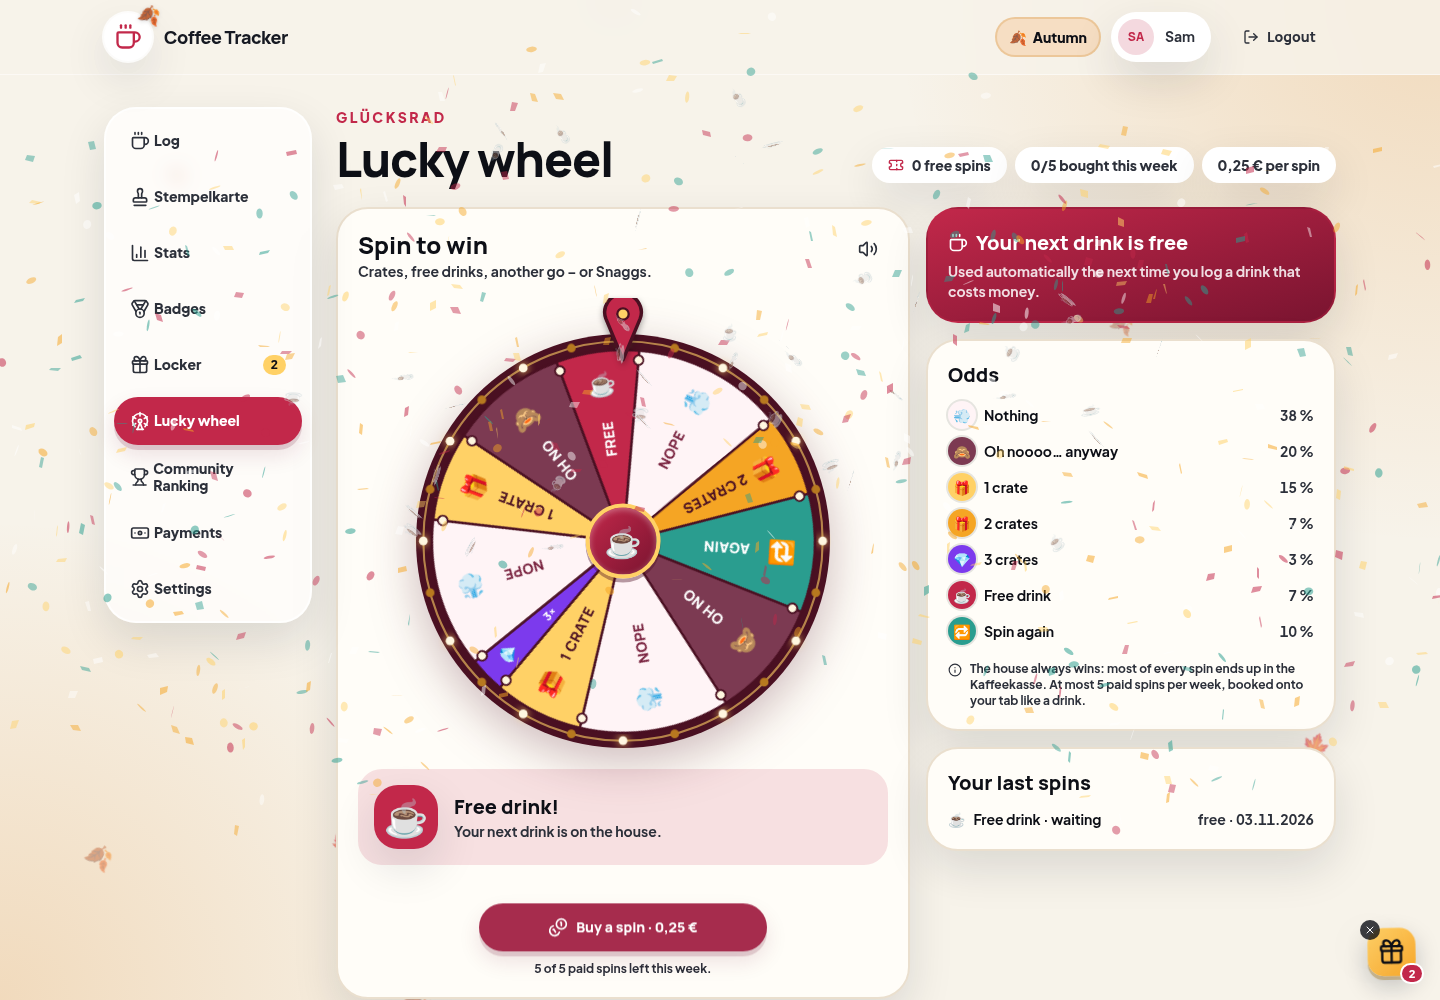
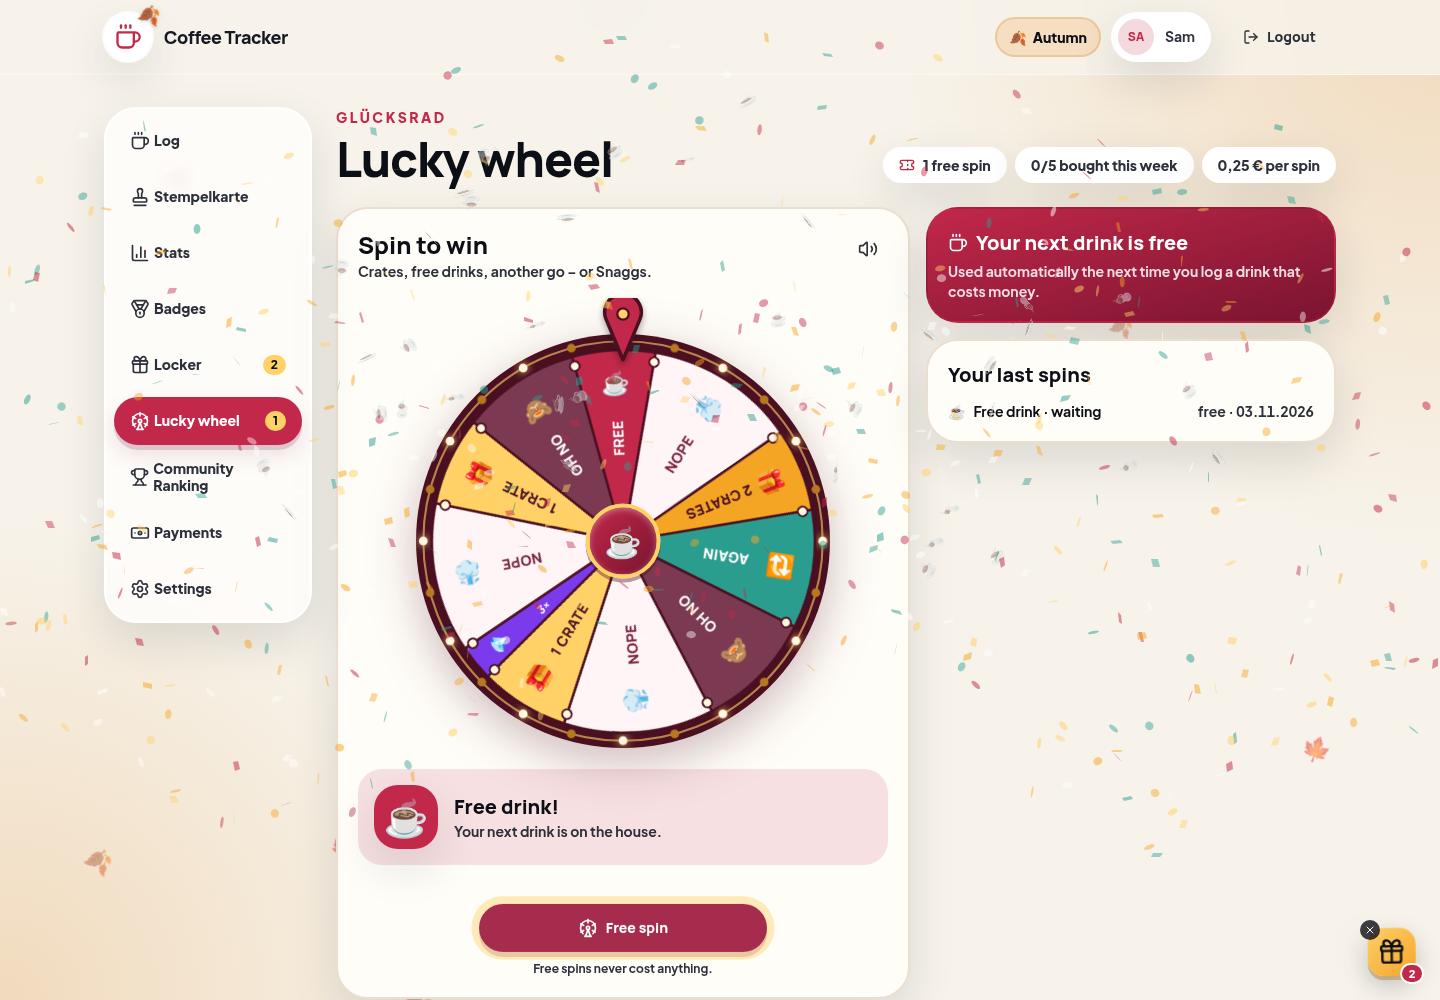
Sync from GitLab pipeline 7157

diff --git a/frontend/coffee-tracker/src/pages/WheelPage.tsx b/frontend/coffee-tracker/src/pages/WheelPage.tsx
@@ -1,6 +1,6 @@
 import confetti from 'canvas-confetti'
 import { AnimatePresence, motion } from 'framer-motion'
-import { Coffee, Coins, FerrisWheel, Gift, Info, Ticket, Volume2, VolumeX } from 'lucide-react'
+import { Coffee, Coins, FerrisWheel, Gift, Ticket, Volume2, VolumeX } from 'lucide-react'
 import { useQueryClient } from '@tanstack/react-query'
 import { useEffect, useMemo, useRef, useState } from 'react'
 import { Link } from 'react-router-dom'
@@ -355,37 +355,6 @@ function Wheel({ status }: { status: WheelStatus }) {
               </p>
             </Card>
           ) : null}
-
-          <Card>
-            <p className="mb-3 font-display text-xl font-black">Odds</p>
-            <ul className="space-y-2">
-              {status.odds.map((entry) => {
-                const meta = PRIZE_META[entry.prize]
-                return (
-                  <li key={entry.prize} className="flex items-center justify-between gap-3 text-sm font-bold">
-                    <span className="flex items-center gap-2">
-                      <span
-                        className="grid size-7 place-items-center rounded-full text-sm ring-2 ring-berry-950/10"
-                        style={{ background: meta.fill }}
-                        aria-hidden="true"
-                      >
-                        {meta.glyph}
-                      </span>
-                      {meta.label}
-                    </span>
-                    <span className="tabular-nums text-berry-700 dark:text-rose-100">
-                      {Math.round(entry.probability * 100)} %
-                    </span>
-                  </li>
-                )
-              })}
-            </ul>
-            <p className="mt-4 flex gap-2 text-xs font-bold text-berry-700 dark:text-rose-100">
-              <Info className="mt-0.5 size-3.5 shrink-0" aria-hidden="true" />
-              The house always wins: most of every spin ends up in the Kaffeekasse. At most{' '}
-              {status.paid_spins_limit} paid spins per week, booked onto your tab like a drink.
-            </p>
-          </Card>
 
           <Card>
             <p className="mb-3 font-display text-xl font-black">Your last spins</p>

diff --git a/frontend/coffee-tracker/public/sw.js b/frontend/coffee-tracker/public/sw.js
@@ -1,4 +1,4 @@
-const CACHE_NAME = 'coffee-tracker-shell-v2'
+const CACHE_NAME = 'coffee-tracker-shell-v3'
 const QUEUE_DB = 'coffee-tracker-queue'
 const QUEUE_STORE = 'logs'
 
@@ -10,6 +10,10 @@ self.addEventListener('install', (event) => {
         '/config.js',
         '/favicon.svg',
         '/manifest.webmanifest',
+        '/apple-touch-icon.png',
+        '/icon-192.png',
+        '/icon-512.png',
+        '/icon-maskable-512.png',
       ]),
     ),
   )
@@ -17,7 +21,18 @@ self.addEventListener('install', (event) => {
 })
 
 self.addEventListener('activate', (event) => {
-  event.waitUntil(self.clients.claim())
+  event.waitUntil(
+    caches
+      .keys()
+      .then((keys) =>
+        Promise.all(
+          keys
+            .filter((key) => key.startsWith('coffee-tracker-shell-') && key !== CACHE_NAME)
+            .map((key) => caches.delete(key)),
+        ),
+      )
+      .then(() => self.clients.claim()),
+  )
 })
 
 self.addEventListener('fetch', (event) => {

diff --git a/frontend/coffee-tracker/src/pages/DashboardPage.tsx b/frontend/coffee-tracker/src/pages/DashboardPage.tsx
@@ -247,7 +247,16 @@ export function DashboardPage() {
                 value={String(globalStats.total_drinks)}
                 caption={`${globalStats.total_coffees} coffees`}
               />
-              <div className="rounded-3xl bg-berry-100 p-4 sm:col-span-3 dark:bg-white/10">
+              <InfoPill
+                label="Money spent"
+                value={formatEuros(globalStats.paid_total_cents + globalStats.unpaid_total_cents)}
+                caption={
+                  globalStats.wheel_spent_cents > 0
+                    ? `${formatEuros(globalStats.wheel_spent_cents)} of it on the lucky wheel`
+                    : 'Paid and open tabs'
+                }
+              />
+              <div className="rounded-3xl bg-berry-100 p-4 sm:col-span-2 dark:bg-white/10">
                 <p className="text-xs font-black uppercase tracking-[0.16em] text-primary dark:text-blush">
                   Top consumer
                 </p>

diff --git a/frontend/coffee-tracker/index.html b/frontend/coffee-tracker/index.html
@@ -4,6 +4,9 @@
     <meta charset="UTF-8" />
     <link rel="icon" type="image/svg+xml" href="/favicon.svg" />
     <link rel="manifest" href="/manifest.webmanifest" />
+    <!-- iOS ignores manifest icons for "Add to Home Screen". -->
+    <link rel="apple-touch-icon" href="/apple-touch-icon.png" />
+    <meta name="apple-mobile-web-app-title" content="Coffee" />
     <meta name="theme-color" content="#f7f3ea" />
     <meta name="viewport" content="width=device-width, initial-scale=1.0" />
     <title>Coffee Tracker</title>

diff --git a/frontend/coffee-tracker/src/api/schema.ts b/frontend/coffee-tracker/src/api/schema.ts
@@ -1100,6 +1100,11 @@ export interface components {
             total_drinks: number;
             /** Format: int64 */
             unpaid_total_cents: number;
+            /**
+             * Format: int64
+             * @description Everything ever booked for lucky wheel spins (paid or still open).
+             */
+            wheel_spent_cents: number;
         };
         GlobalTopDrinker: {
             /** Format: int64 */

diff --git a/backend/src/stats/mod.rs b/backend/src/stats/mod.rs
@@ -113,6 +113,8 @@ pub struct GlobalStatsResponse {
     pub paid_total_cents: i64,
     pub expense_balance_cents: i64,
     pub chair_balance_cents: i64,
+    /// Everything ever booked for lucky wheel spins (paid or still open).
+    pub wheel_spent_cents: i64,
     pub kn_drinks: i64,
     pub kn_coffees: i64,
     pub guest_drinks: i64,
@@ -434,6 +436,10 @@ pub(crate) async fn global_summary(
     .fetch_one(&state.db)
     .await?;
     let unpaid_total_cents = unpaid_total_cents.unwrap_or(0) + unpaid_wheel_cents;
+    let (wheel_spent_cents,): (i64,) =
+        sqlx::query_as("SELECT COALESCE(SUM(cost_cents), 0) FROM wheel_spins")
+            .fetch_one(&state.db)
+            .await?;
     let paid_total_cents = paid_total_cents.unwrap_or(0);
     let expense_balance_cents = chair_expense_balance_cents(&state).await?;
     let chair_balance_cents = unpaid_total_cents + expense_balance_cents;
@@ -448,6 +454,7 @@ pub(crate) async fn global_summary(
         paid_total_cents,
         expense_balance_cents,
         chair_balance_cents,
+        wheel_spent_cents,
         kn_drinks,
         kn_coffees,
         guest_drinks,

diff --git a/backend/src/wheel.rs b/backend/src/wheel.rs
@@ -1397,6 +1397,7 @@ mod flow_tests {
             .await
             .unwrap();
         assert_eq!(summary.unpaid_total_cents, SPIN_PRICE_CENTS);
+        assert_eq!(summary.wheel_spent_cents, SPIN_PRICE_CENTS);
     }
 
     #[tokio::test]

diff --git a/README.md b/README.md
@@ -27,7 +27,7 @@
 - **Social stats** with an opt-in leaderboard, achievement standings, rare badges, streak races, and coffee-twin matching.
 - **Stempelkarte loyalty card** where every paid drink earns a stamp, the 13th drink of the month is free, and the discount lands straight on the open tab.
 - **Lootboxes and the Locker** with crates earned (never bought): one for every fifth day you log a drink, streak bonuses every five lab days, every 25th drink, achievements, full stamp cards, paid tabs, shopping for the team, weekly machine chores, lucky wheel prizes, and Advent calendar doors in December. A case-opening reel reveals one of 80+ purely cosmetic items: avatars, frames, titles, cups, stamp inks, UI skins, and collectibles. Duplicates turn into beans for crafting.
-- **Lucky wheel** for team members: grab the wheel and flick it to win crates, a free drink, another spin, or an "Oh noooo… anyway" consolation picture. The first spin is free; after that a spin costs 25 cents on the tab, capped at five a week, with odds shown openly and tilted so the coffee fund always comes out ahead. Staff can follow every draw, the revenue, and the observed odds on the payments page.
+- **Lucky wheel** for team members: grab the wheel and flick it to win crates, a free drink, another spin, or an "Oh noooo… anyway" consolation picture. The first spin is free; after that a spin costs 25 cents on the tab, capped at five a week, with odds tilted so the coffee fund comes out ahead in the long run. Staff can follow every draw, the revenue, and the observed odds on the payments page.
 - **Seasonal themes** that switch on by date (Advent, New Year, Easter, Halloween, Internet Day, the seasons, and more) without touching the brand colour, and can be turned off per browser.
 - **Coffee-machine chores board** on the honour system (cleaning, emptying the grounds, refilling water, descaling), where the first member to do each chore in a week claims a crate.
 - **Shared payments** covering open tabs, payment links, settlement history, expenses, and optional email or webhook reminders.
